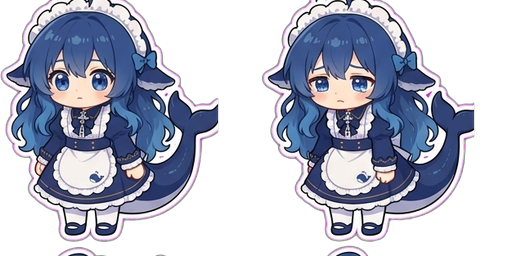
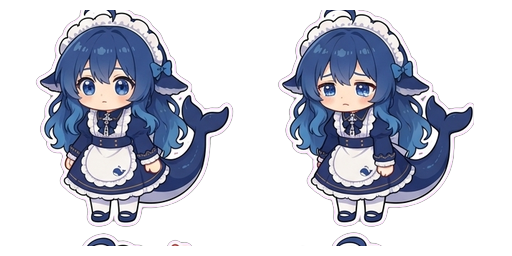
fix(assets): 帧留白（92% 居中）+ 洋红环彻底清除（半径 200 + 侵蚀羽化）
- 顶部'多裁'：union-bbox 紧贴内容裁剪无留白，角色顶/脚贴帧边；改为最终帧内容缩放 92% 居中（保底 ~4% 边距），内缩 12→4px 不再裁头
- 洋红边框仍在：残留是不透明混合像素（dmin>120 漏网）+ 依赖混合比例的抑制不可靠；修复 = 抑制半径 120→200 + alpha 侵蚀 1px 剥掉混合环 + 高斯羽化
- 13 张全量重建：洋红 49~262 → 0~6；上/下边距全部 ≥10px（原顶触 63~294px）
- 验证：web 无崩溃、assets 200、浏览器冒烟 OK

diff --git a/scripts/slice-sheet.py b/scripts/slice-sheet.py
@@ -114,7 +114,8 @@ def despill(img, bg_colors):
     dmin = np.min(dists, axis=0)
     r, g, b = rgb[:, :, 0], rgb[:, :, 1], rgb[:, :, 2]
     sp = np.clip(np.minimum(r, b) - g, 0, 255)  # 洋红溢色量
-    mask = (dmin < 120) & (sp > 8) & (a > 0.05)
+    # 半径 200：深色角色 + 洋红的小比例混合其距背景距离仍大（120 漏网，实测边缘仍洋红）
+    mask = (dmin < 200) & (sp > 8) & (a > 0.05)
     rgb = np.stack([
         np.where(mask, r - sp * 0.35, r),
         np.where(mask, g + sp * 0.7, g),
@@ -124,6 +125,20 @@ def despill(img, bg_colors):
     data = np.asarray(out, dtype=np.uint8).copy()
     data[:, :, :3] = np.clip(rgb, 0, 255).astype(np.uint8)
     return Image.fromarray(data)
+
+
+def defringe(img, erode=1):
+    """边缘侵蚀 + 羽化：剥掉含背景混合的最外层 1-2px（洋红环确定性移除），再高斯羽化恢复柔和边缘。
+    代价：轮廓损失约 1px（贴纸可接受）；比依赖混合比例的抑制更可靠。"""
+    from PIL import ImageFilter
+
+    a = img.getchannel('A')
+    for _ in range(erode):
+        a = a.filter(ImageFilter.MinFilter(3))
+    a = a.filter(ImageFilter.GaussianBlur(0.6))
+    out = img.copy()
+    out.putalpha(a)
+    return out
 
 
 def profile_bounds(mask, axis, n):
@@ -197,9 +212,10 @@ def detect_grid(img, max_cells=8):
     return row_bounds, col_bounds
 
 
-def build_state_sheet(img, row_bounds, col_bounds, row, cols, size):
+def build_state_sheet(img, row_bounds, col_bounds, row, cols, size, padding=14):
     """把一行（同一状态的帧）按 union-bbox 对齐后横排拼接成 sheet。
-    对齐保证各帧同尺同锚（不各自归一化导致动画抖动）；空帧跳过。"""
+    对齐保证各帧同尺同锚（不各自归一化导致动画抖动）；空帧跳过。
+    padding：union-bbox 四周留白（防角色顶/脚贴到帧边，视觉像被裁）。"""
     frames = []
     for c in cols:
         (yt, yb), (xl, xr) = row_bounds[row], col_bounds[c]
@@ -210,19 +226,22 @@ def build_state_sheet(img, row_bounds, col_bounds, row, cols, size):
         frames.append((cell, bb))
     if not frames:
         return None, 0
-    x0 = min(bb[0] for _, bb in frames)
-    y0 = min(bb[1] for _, bb in frames)
-    x1 = max(bb[2] for _, bb in frames)
-    y1 = max(bb[3] for _, bb in frames)
+    x0 = max(0, min(bb[0] for _, bb in frames) - padding)
+    y0 = max(0, min(bb[1] for _, bb in frames) - padding)
+    x1 = min(cell.width, max(bb[2] for _, bb in frames) + padding)
+    y1 = min(cell.height, max(bb[3] for _, bb in frames) + padding)
     side = max(x1 - x0, y1 - y0)
     if side <= 0:
         return None, 0
     norm = []
     for cell, _ in frames:
         f = cell.crop((x0, y0, x0 + side, y0 + side))
-        if f.size[0] != size:
-            f = f.resize((size, size), Image.LANCZOS)
-        norm.append(f)
+        # 最终帧 = 画布留白：内容缩放至 92% 居中（角色无论多高都有 ~4% 边距，防"像被裁"）
+        canvas = Image.new('RGBA', (size, size), (0, 0, 0, 0))
+        fsize = round(size * 0.92)
+        f = f.resize((fsize, fsize), Image.LANCZOS)
+        canvas.paste(f, ((size - fsize) // 2, (size - fsize) // 2), f)
+        norm.append(canvas)
     sheet = Image.new('RGBA', (size * len(norm), size), (0, 0, 0, 0))
     for i, f in enumerate(norm):
         sheet.paste(f, (i * size, 0), f)
@@ -263,7 +282,8 @@ def main():
             bgs = [detect_bg(img)] if args.key == 'auto' else [[int(v) for v in c.split(',')] for c in args.key.split('|')]
             img = chroma_key(img, bgs, args.key_lo, args.key_hi)
             img = despill(img, bgs)  # 去边缘溢色（洋红描边）
-            print(f'keyed: bg={bgs} lo={args.key_lo} hi={args.key_hi} +despill', file=sys.stderr)
+            img = defringe(img, erode=1)  # 侵蚀 1px 剥掉混合环 + 羽化
+            print(f'keyed: bg={bgs} lo={args.key_lo} hi={args.key_hi} +despill +defringe', file=sys.stderr)
         if args.repair:
             img = harden_alpha(img)
             print('repair: alpha hardened', file=sys.stderr)
@@ -293,7 +313,8 @@ def main():
                 col_bounds = [(round(w * c / cols), round(w * (c + 1) / cols)) for c in range(cols)]
                 print('content bounds failed, fallback equal division', file=sys.stderr)
             # 安全内缩：剥掉相邻角色的残余（截脚），union-bbox 会重新收回到真实内容。
-            inset = 12
+            # 4px 保守值：内缩过大会裁掉角色头顶（用户反馈"多裁"）；留白交给 build_state_sheet 的 padding。
+            inset = 4
             row_bounds = [(a + inset, b - inset) for (a, b) in row_bounds if b - a > 2 * inset]
             col_bounds = [(a + inset, b - inset) for (a, b) in col_bounds if b - a > 2 * inset]
         else:
